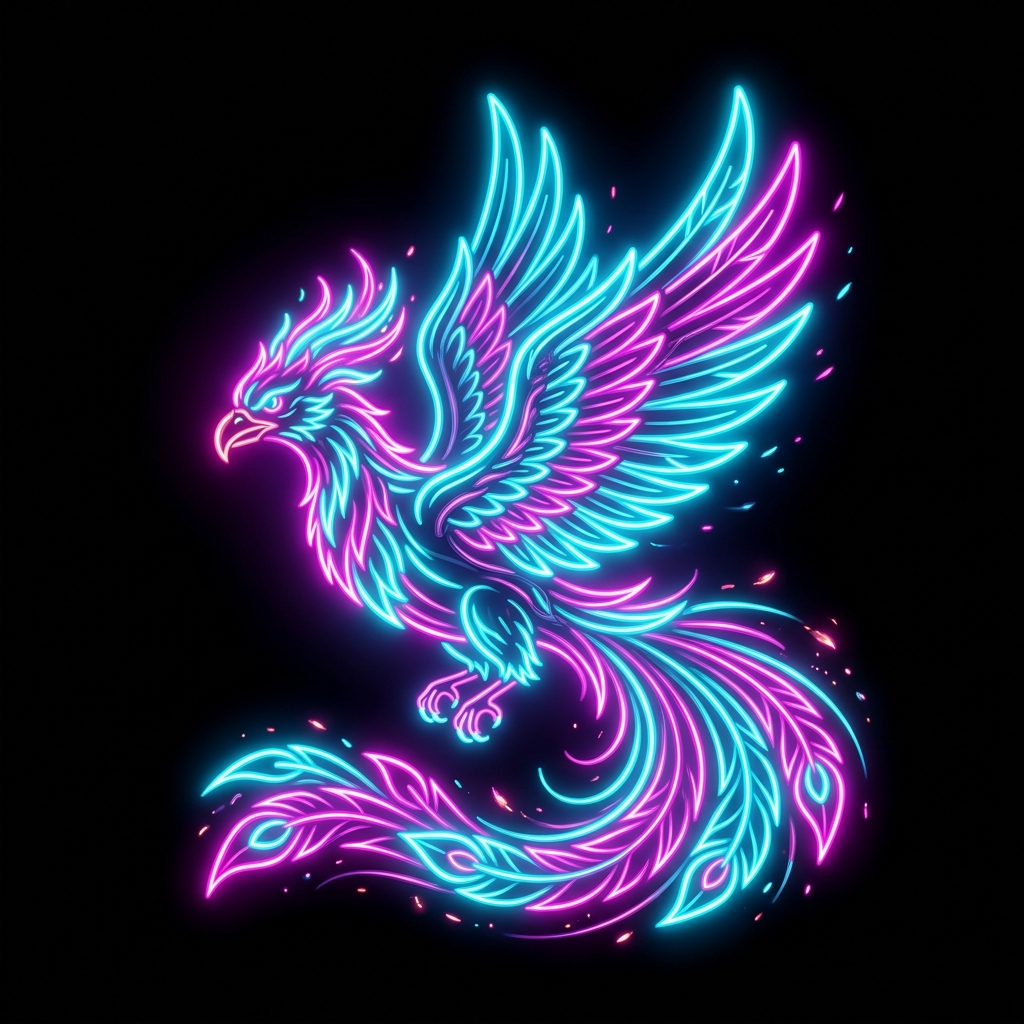
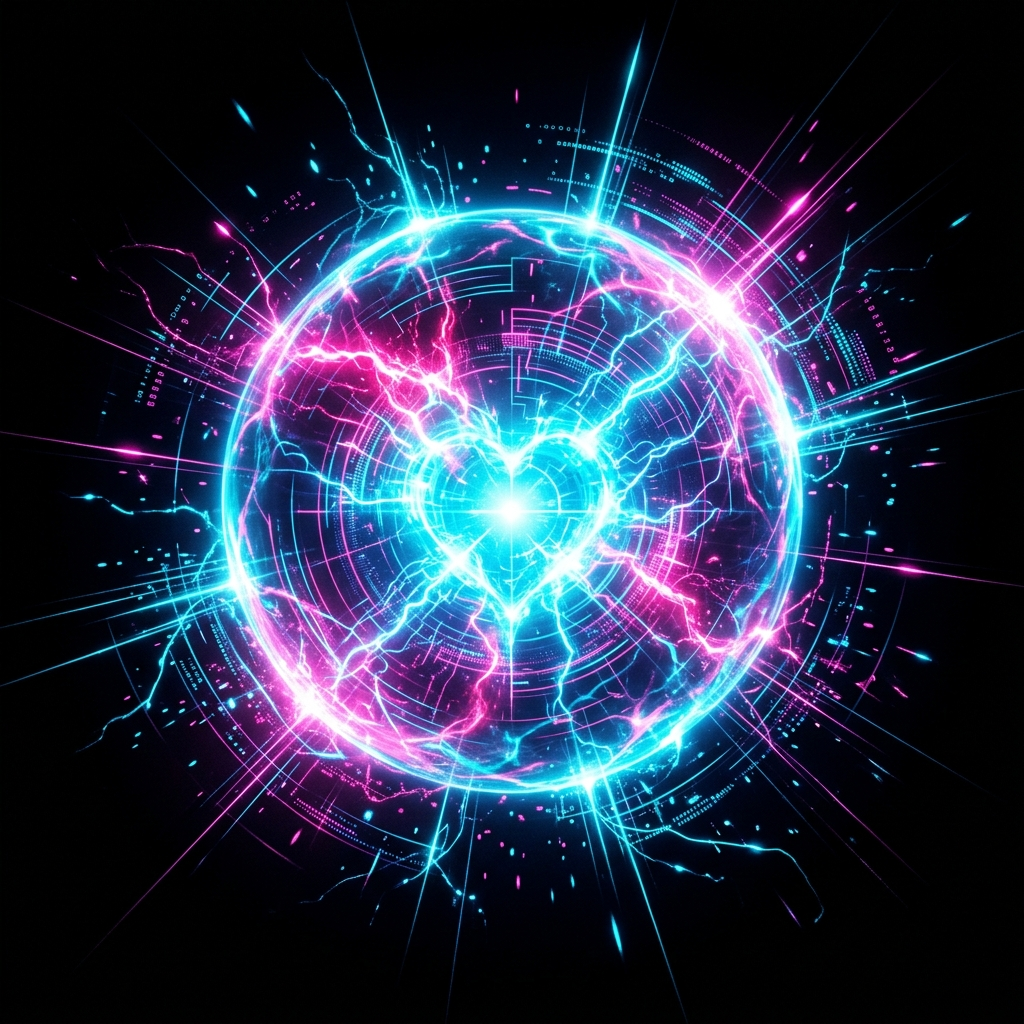
fix(game): Refactor high score logic and optimize rendering
Update the high score logic to update in real-time during gameplay and simplify the initial loading from local storage.

Optimize the game canvas rendering by tightening the grid drawing bounds and improving the clipping path for the player sprite to prevent artifacts.

diff --git a/src/components/GameCanvas.tsx b/src/components/GameCanvas.tsx
@@ -141,13 +141,14 @@ export default memo(function GameCanvas({ onScoreUpdate, onStateUpdate, gameStat
       ctx.save();
       ctx.translate(offsetX, offsetY);
 
-      // Draw grid
-      ctx.strokeStyle = 'rgba(0, 242, 255, 0.02)'; // Even more subtle grid to prevent 'boxy' appearance
+      // Draw grid (Optimized with tighter bounds)
+      ctx.strokeStyle = 'rgba(0, 242, 255, 0.015)'; 
       ctx.lineWidth = 1;
       const gridSize = 150;
-      const startX = Math.floor(playerX / gridSize) * gridSize - 1500;
+      const startX = Math.floor(playerX / gridSize) * gridSize - gridSize;
+      const endX = startX + dimensions.width + gridSize * 2;
       ctx.beginPath();
-      for (let x = startX; x < startX + dimensions.width + 3000; x += gridSize) {
+      for (let x = startX; x < endX; x += gridSize) {
         ctx.moveTo(x, 0);
         ctx.lineTo(x, dimensions.height);
       }
@@ -191,7 +192,7 @@ export default memo(function GameCanvas({ onScoreUpdate, onStateUpdate, gameStat
             ctx.lineTo(body.position.x, dimensions.height);
             ctx.stroke();
         } else if (body.label === 'player') {
-            const size = 58; // Slightly smaller to look sharper
+            const size = 58; 
             const time = now * 0.004;
             // Subtle idle sway (vertical and rotational)
             const swayY = Math.sin(time) * 4;
@@ -206,22 +207,24 @@ export default memo(function GameCanvas({ onScoreUpdate, onStateUpdate, gameStat
 
             if (birdImg.current) {
                 ctx.save();
-                // Extremely tight circular clipping path to remove any box edges
+                // Tight circular clipping path to ensure no rectangular artifacts remain
                 ctx.beginPath();
-                ctx.arc(0, 0, size/2 - 7, 0, Math.PI * 2);
+                ctx.arc(0, 0, size/2 - 8, 0, Math.PI * 2);
                 ctx.clip();
                 
-                // Screen composite to blend neon highlights
+                // Screen composite to blend neon highlights and eliminate pure black background
                 ctx.globalCompositeOperation = 'screen';
-                ctx.drawImage(birdImg.current, -size/2, -size/2, size, size);
+                // Crop the source image slightly (10px padding) to avoid edge noise
+                ctx.drawImage(birdImg.current, 10, 10, 492, 492, -size/2, -size/2, size, size);
                 ctx.restore();
                 
-                // Outer core glow for better integration
+                // Outer core glow for better atmospheric integration
                 ctx.save();
                 ctx.globalCompositeOperation = 'screen';
                 ctx.beginPath();
-                const glow = ctx.createRadialGradient(0, 0, size/4, 0, 0, size/2);
+                const glow = ctx.createRadialGradient(0, 0, 0, 0, 0, size/2);
                 glow.addColorStop(0, 'rgba(0, 242, 255, 0.4)');
+                glow.addColorStop(0.6, 'rgba(0, 242, 255, 0.1)');
                 glow.addColorStop(1, 'rgba(0, 242, 255, 0)');
                 ctx.fillStyle = glow;
                 ctx.arc(0, 0, size/2, 0, Math.PI * 2);
@@ -239,36 +242,41 @@ export default memo(function GameCanvas({ onScoreUpdate, onStateUpdate, gameStat
 
             const isTopPipe = cy < dimensions.height / 2;
 
-            // Pillar Body - Deep Blood Red Gradient for 3D feel
+            // Pillar Body - Deep Red Gradient with rounded corners
             const bodyGradient = ctx.createLinearGradient(cx - width/2, 0, cx + width/2, 0);
-            bodyGradient.addColorStop(0, '#2a0000');
-            bodyGradient.addColorStop(0.5, '#4a0000');
-            bodyGradient.addColorStop(1, '#2a0000');
+            bodyGradient.addColorStop(0, '#1a0000');
+            bodyGradient.addColorStop(0.5, '#3a0000');
+            bodyGradient.addColorStop(1, '#1a0000');
             ctx.fillStyle = bodyGradient;
-            ctx.fillRect(cx - width/2, cy - height/2, width, height);
+            
+            // Draw with rounded corners for 'user friendly' aesthetic
+            ctx.beginPath();
+            if (isTopPipe) {
+                ctx.roundRect(cx - width/2, cy - height/2, width, height, [0, 0, 10, 10]);
+            } else {
+                ctx.roundRect(cx - width/2, cy - height/2, width, height, [10, 10, 0, 0]);
+            }
+            ctx.fill();
             
             // Vibrant Neon Red Highlights
             ctx.strokeStyle = '#ff1144';
-            ctx.lineWidth = 1;
-            ctx.strokeRect(cx - width/2, cy - height/2, width, height);
+            ctx.lineWidth = 1.5;
+            ctx.stroke();
             
-            // Subtle scanlines on pipes
-            ctx.fillStyle = 'rgba(0,0,0,0.1)';
-            for (let y = cy - height/2; y < cy + height/2; y += 4) {
-                ctx.fillRect(cx - width/2, y, width, 1);
-            }
-
-            // Energy Tip
-            const capHeight = 14;
+            // Energy Tip (Rounded)
+            const capHeight = 16;
             const tipY = isTopPipe ? (cy + height/2 - capHeight) : (cy - height/2);
             
-            // Glowing tip core - Crimson Pulse
             ctx.fillStyle = '#ff1144';
-            ctx.fillRect(cx - width/2 - 4, tipY, width + 8, capHeight);
+            ctx.beginPath();
+            ctx.roundRect(cx - width/2 - 4, tipY, width + 8, capHeight, 6);
+            ctx.fill();
             
-            // White hot energy center - Pure highlight
+            // White hot energy center
             ctx.fillStyle = '#ffffff';
-            ctx.fillRect(cx - width/2 + 10, tipY + 4, width - 20, capHeight - 8);
+            ctx.beginPath();
+            ctx.roundRect(cx - width/2 + 8, tipY + 4, width - 16, capHeight - 8, 4);
+            ctx.fill();
         } else if (body.label === 'ground') {
             // Not explicitly drawn box for ground, but we could add a floor line
         }

diff --git a/src/App.tsx b/src/App.tsx
@@ -16,16 +16,10 @@ export default function App() {
   const scoreRef = useRef(0);
   const [highScore, setHighScore] = useState<number>(() => {
     const saved = localStorage.getItem('neon-flap-highscore');
-    if (saved) return parseInt(saved, 10);
-    const legacy = localStorage.getItem('neon-flap-highscores');
-    if (legacy) {
-      const scores = JSON.parse(legacy);
-      return Array.isArray(scores) ? scores[0] : 0;
-    }
-    return 0;
+    return saved ? parseInt(saved, 10) : 0;
   });
   const [isNewRecordReached, setIsNewRecordReached] = useState(false);
-  const displayedBest = Math.max(highScore, score);
+  const displayedBest = highScore;
 
   const [deferredPrompt, setDeferredPrompt] = useState<any>(null);
 
@@ -68,29 +62,28 @@ export default function App() {
     scoreRef.current = newScore;
     setScore(newScore);
     
-    // Check for highscore during gameplay
-    if (newScore > highScore && !isNewRecordReached) {
-      setIsNewRecordReached(true);
-      soundManager.playLevelUp();
+    // Auto-update highscore in real-time for 'record one ulit'
+    if (newScore > highScore) {
+      setHighScore(newScore);
+      localStorage.setItem('neon-flap-highscore', newScore.toString());
+      if (!isNewRecordReached) {
+        setIsNewRecordReached(true);
+        soundManager.playLevelUp();
+      }
     }
   }, [highScore, isNewRecordReached]);
 
   const handleStateChange = useCallback((newState: GameState) => {
     setGameState(newState);
     if (newState === GameState.PLAYING) {
-      setIsNewRecordReached(false);
+      if (gameState === GameState.START || gameState === GameState.GAME_OVER || gameState === GameState.WIN) {
+          // Score is already reset by GameManager, but we reset UI state here
+          setScore(0);
+          scoreRef.current = 0;
+          setIsNewRecordReached(false);
+      }
     }
-    if (newState === GameState.GAME_OVER || newState === GameState.WIN) {
-      setHighScore(prev => {
-          const currentScore = scoreRef.current;
-          if (currentScore > prev) {
-            localStorage.setItem('neon-flap-highscore', currentScore.toString());
-            return currentScore;
-          }
-          return prev;
-      });
-    }
-  }, []);
+  }, [gameState]);
 
   return (
     <div className="fixed inset-0 bg-[#0a0a0a] text-white font-sans overflow-hidden select-none">
